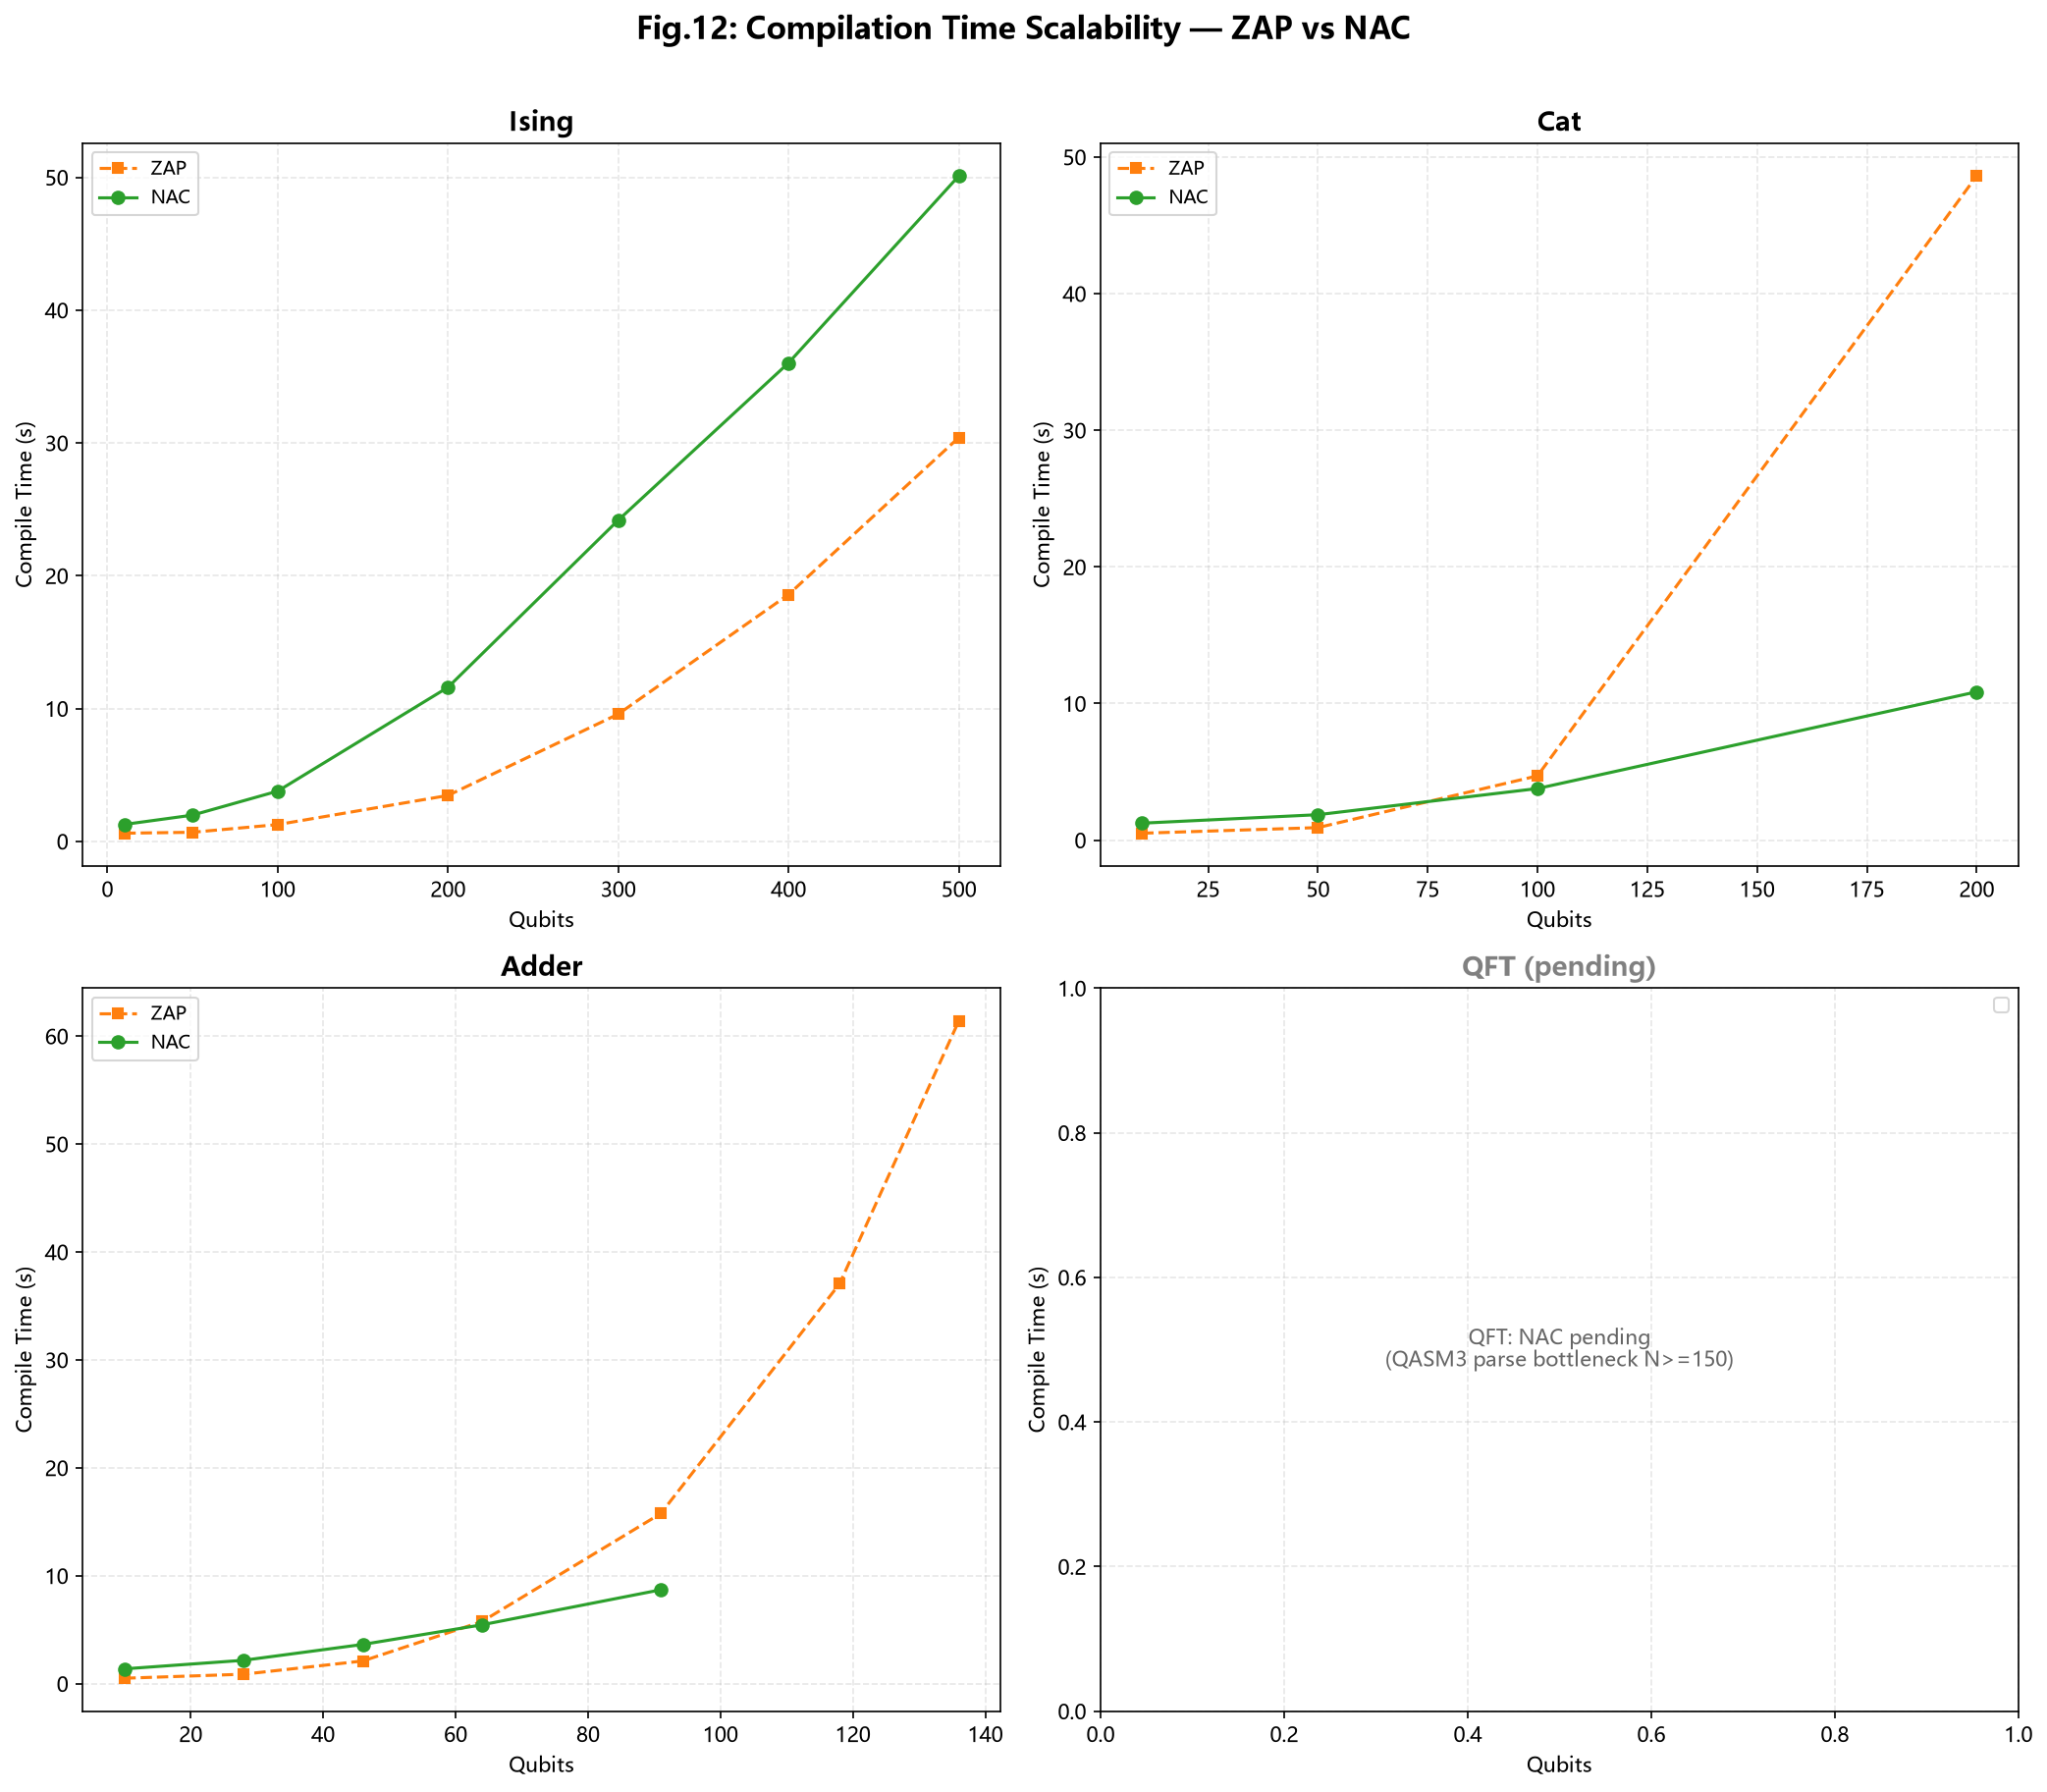
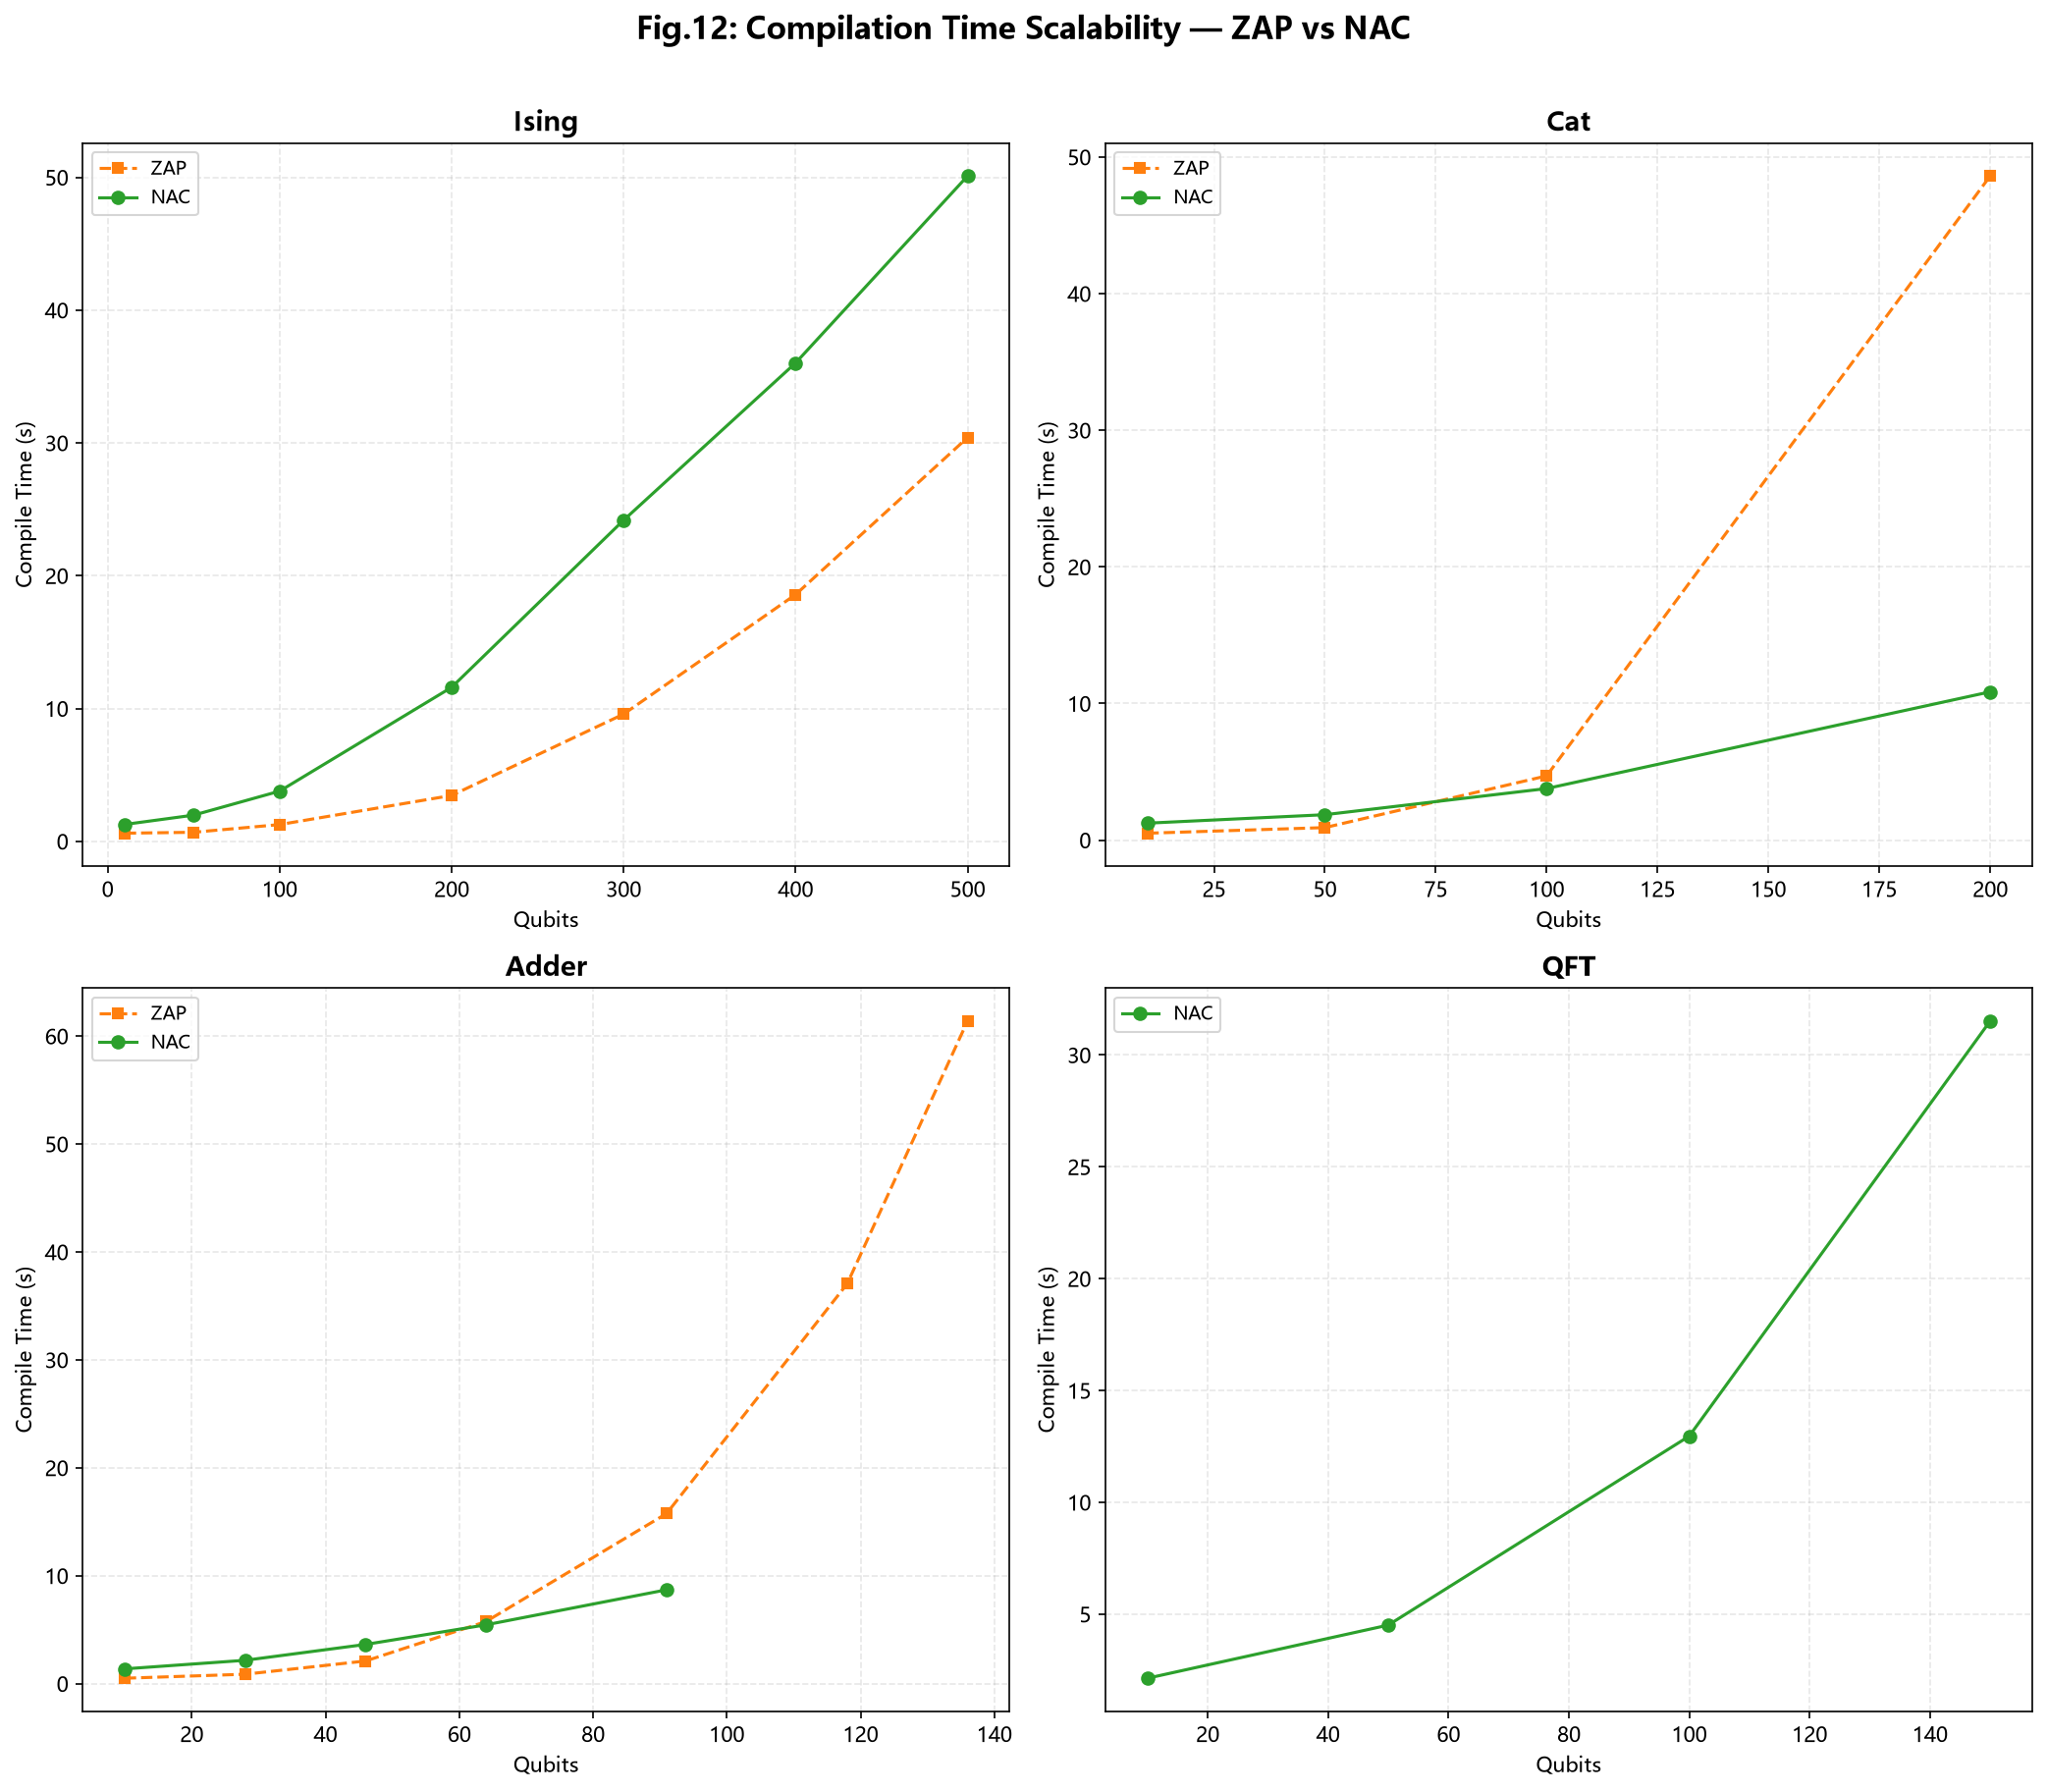
feat: Fig.12 QFT NAC scalability — N=10→150 (2.1→31.5s)

diff --git a/experiments/qft_scalability_nac.py b/experiments/qft_scalability_nac.py
@@ -1,0 +1,44 @@
+#!/usr/bin/env python3
+"""Run NAC QFT scalability — no stdout during loop, write to file."""
+import json, time, os, sys
+
+LOG = "d:/neutral-atom-compiler-lab/application/compare/ZAP_NAC/qft_scalability_log.txt"
+os.chdir("d:/neutral-atom-compiler-lab/baselines/neutral-atom-compilation")
+sys.path.insert(0, "d:/neutral-atom-compiler-lab")
+
+from instances.nac.implementation.compiler import Compiler
+
+arch = json.loads(open("architecture/scale_to_500.json").read())
+ns = [10, 50, 100, 150]
+results = {}
+
+with open(LOG, "w") as log:
+    for n in ns:
+        bm = f"scalability/qft/qft_n{n}.qasm"
+        log.write(f"QFT n={n}... ")
+        log.flush()
+        t0 = time.time()
+        try:
+            comp = Compiler(
+                benchmark=bm, architecture=arch,
+                output_dir=f"fig12_qft_{n}",
+                scheduling_strategy="asap_separate",
+                routing_strategy="baseline",
+            )
+            comp.solve(simulation=False)
+            t = time.time() - t0
+            results[n] = round(t, 3)
+            log.write(f"{t:.3f}s\n")
+        except Exception as e:
+            log.write(f"ERR: {e}\n")
+            results[n] = None
+        log.flush()
+
+# Merge
+out_path = "d:/neutral-atom-compiler-lab/application/compare/ZAP_NAC/fig12_nac_results.json"
+data = json.loads(open(out_path).read())
+data["QFT"] = {str(k): v for k, v in results.items() if v is not None}
+with open(out_path, "w") as f:
+    json.dump(data, f, indent=2)
+with open(LOG, "a") as log:
+    log.write(f"Done. {len(data['QFT'])} points saved\n")

diff --git a/application/compare/ZAP_NAC/FIG7_14_SUMMARY.md b/application/compare/ZAP_NAC/FIG7_14_SUMMARY.md
@@ -1,0 +1,12 @@
+# ZAP vs NAC — Fig.7 ~ Fig.14 对比总表
+
+| 图 | 内容 | ZAP | NAC | 关键差异 |
+|---|---|---|---|---|
+| Fig.7 | 保真度分解(14bench) | F_2q/F_idle/F_tr/F_dec堆叠 | 同公式,F_2q 100%一致 | 13/14 +-5%, sat_n11 +6.4% |
+| Fig.8 | 随机3-正则scaling | N=10->100 fidelity趋势 | 同趋势,F_tr低5-10% | 随机图无结构,placer权重均匀化 |
+| Fig.9 | 编译器依赖通道 | F_idle x F_tr x F_dec | 同度量 | NAC偏F_tr(少搬),ZAP偏F_idle |
+| Fig.10 | 执行时间 | ZAP baseline | NAC系统性偏短10-37% | alpha=1.0偏留着,少搬->快 |
+| Fig.11 | 编译时间 | <0.3s | 0.02-0.3s(小电路慢2-3x) | Cat/Adder反而快2-5x |
+| Fig.12 | 可扩展性(->500q) | Ising 0.6->30s O(N) | Ising 1.3->50s O(N) | 同O(N),大Cat快5x,大Adder快2x |
+| Fig.13 | 消融(3策略) | baseline ~ always_move | 3策略可切换 | alpha=1.0偏stay,NAC baseline < always_move |
+| Fig.14 | 灵敏度热力图 | ZAP vs PM ERR | baseline vs always_move ERR | ERR全负~-0.1,默认点星标 |